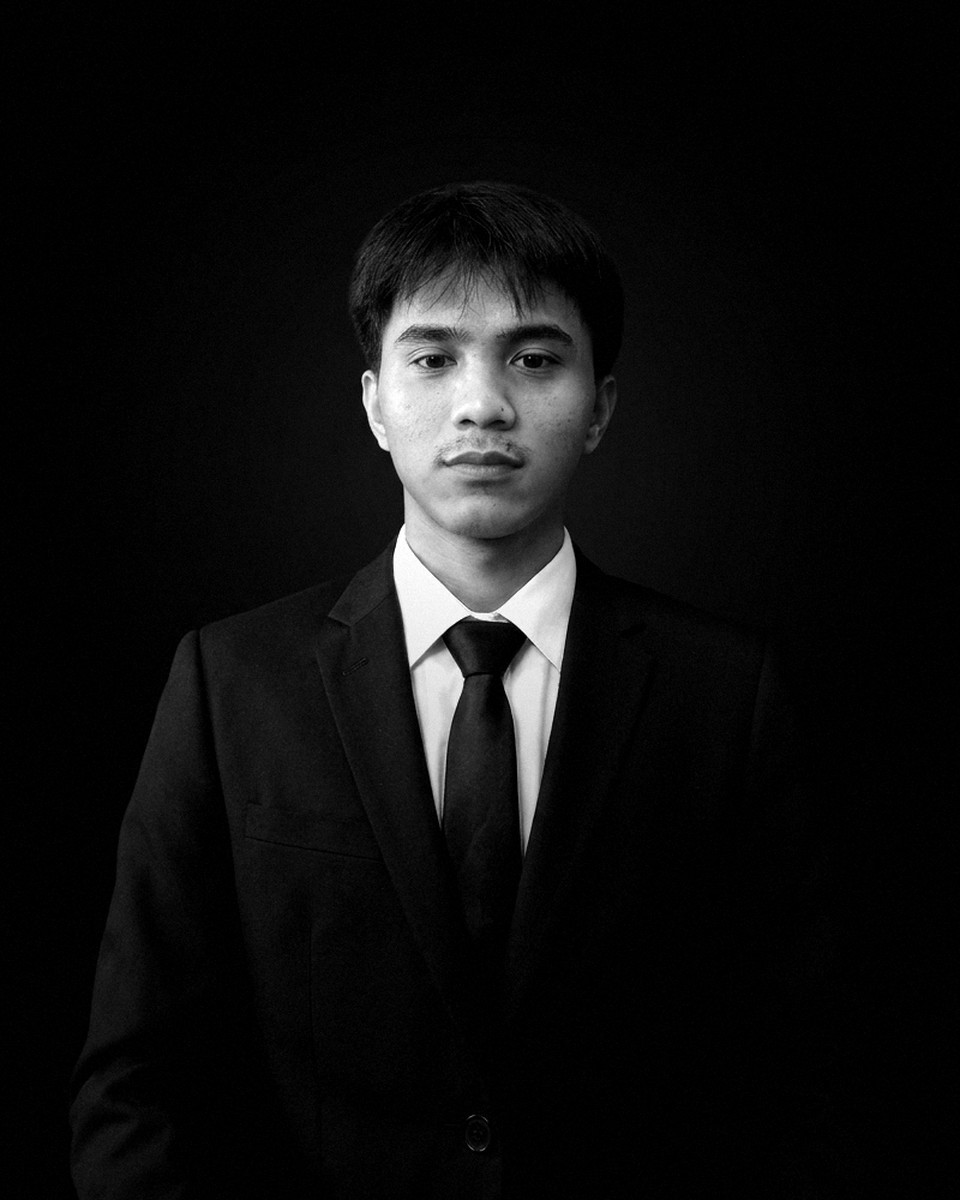
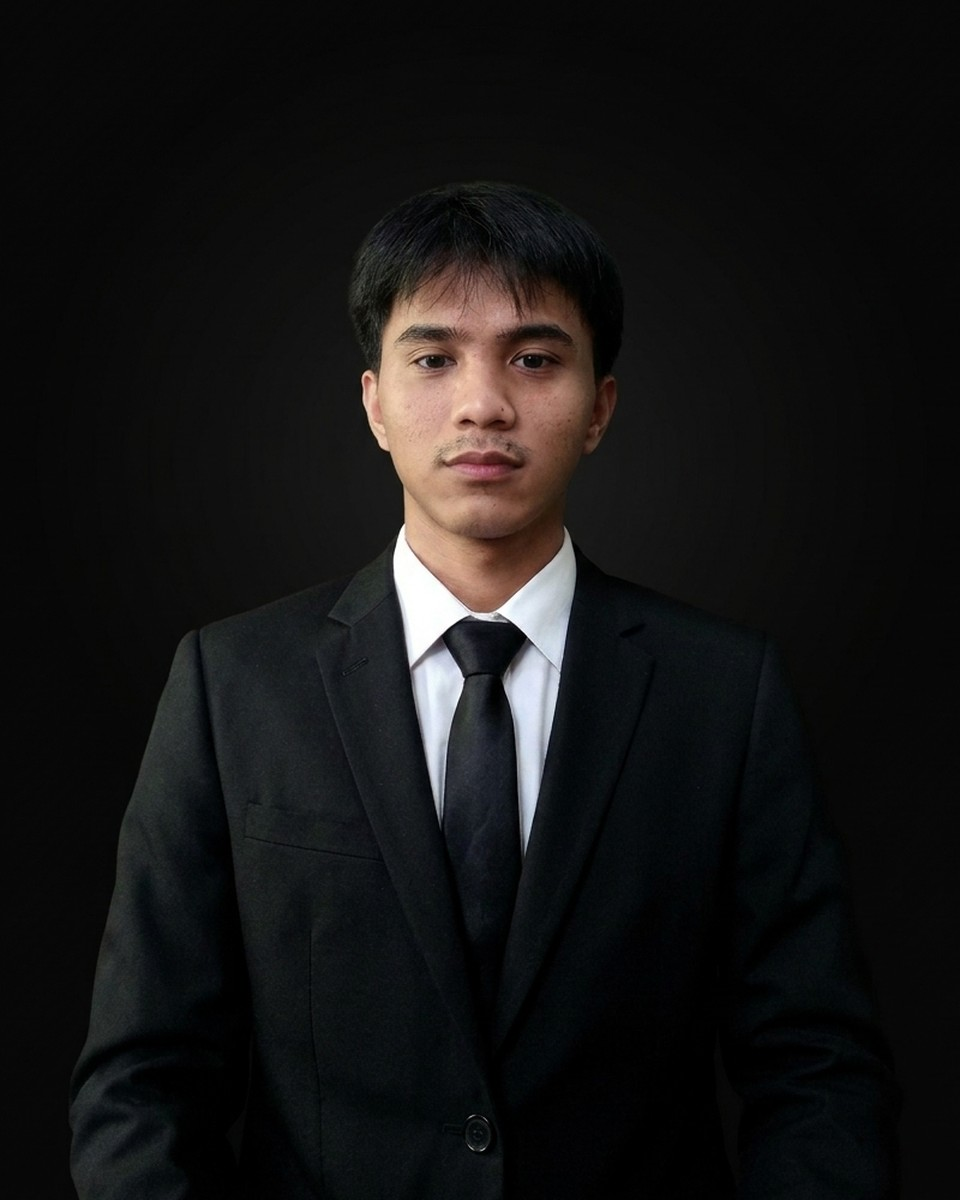
Use the color photo for the portrait

diff --git a/index.html b/index.html
@@ -268,7 +268,7 @@
           </div>
         </div>
         <div class="portrait reveal">
-          <div class="frame"><img src="assets/profile.jpg" alt="Black and white portrait of Jerry Olalo in a black suit" width="960" height="1200"></div>
+          <div class="frame"><img src="assets/profile.jpg" alt="Portrait of Jerry Olalo in a black suit" width="960" height="1200"></div>
           <div class="badge"><i></i> Open for projects</div>
         </div>
       </div>
